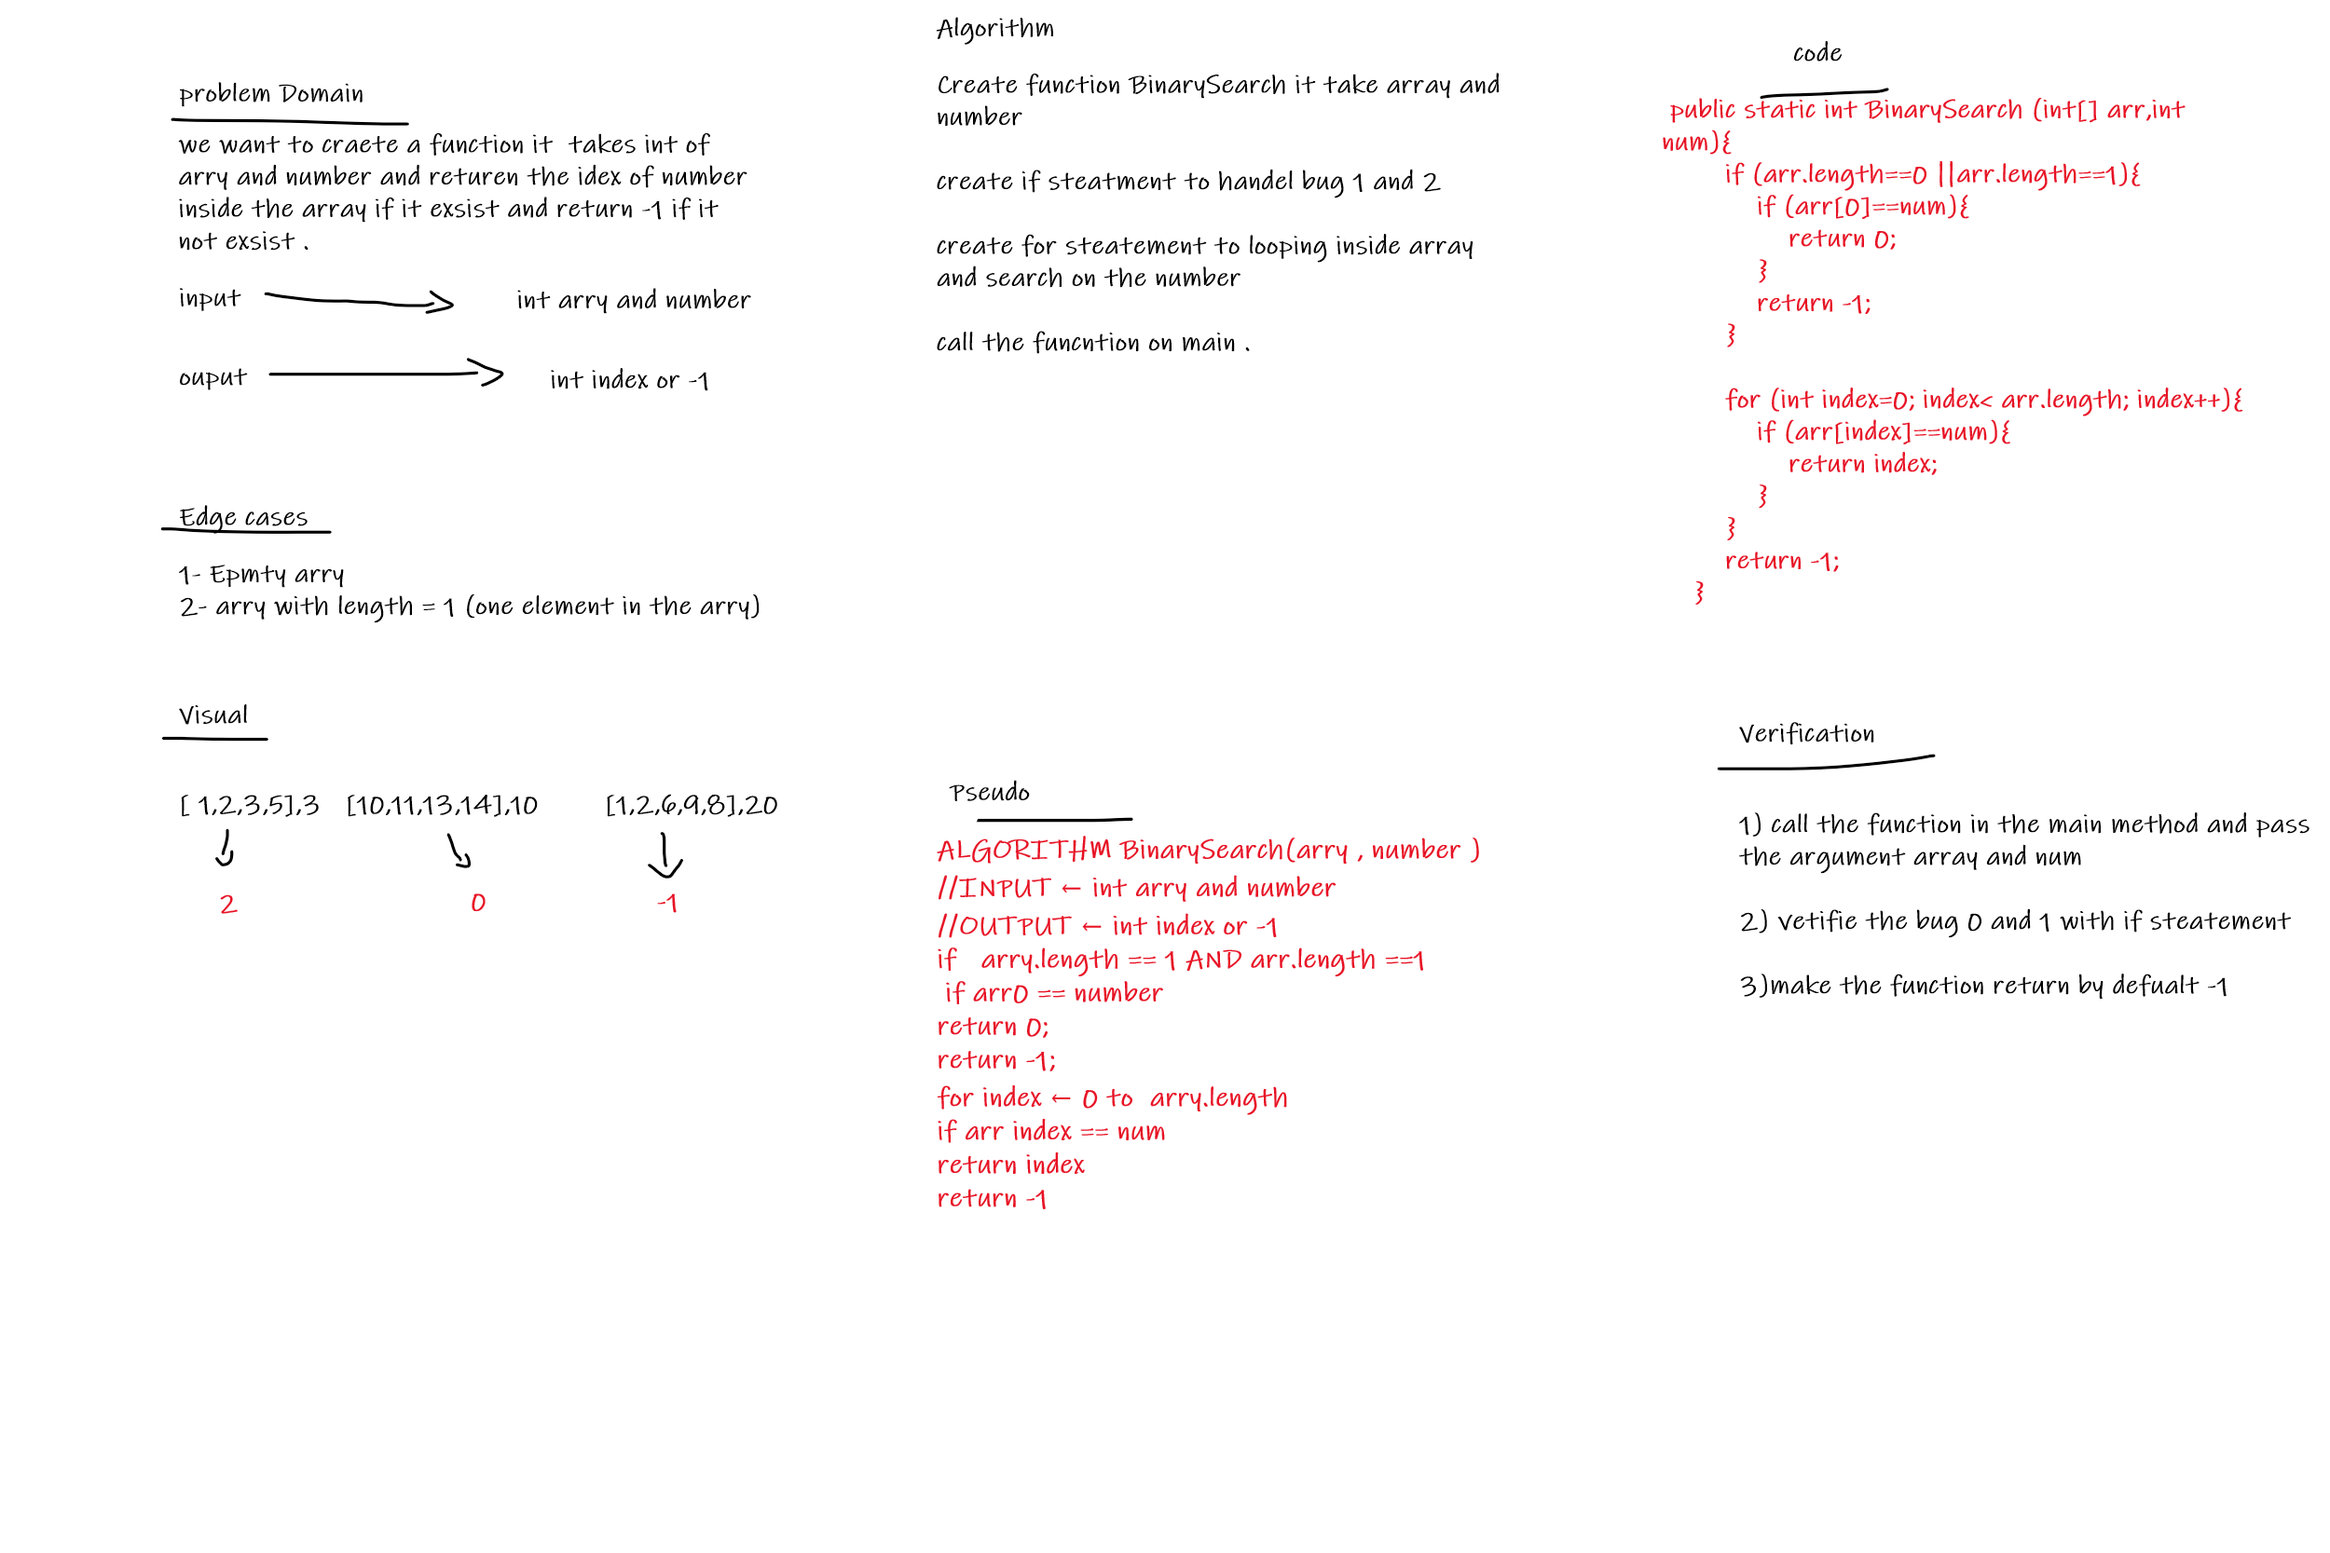
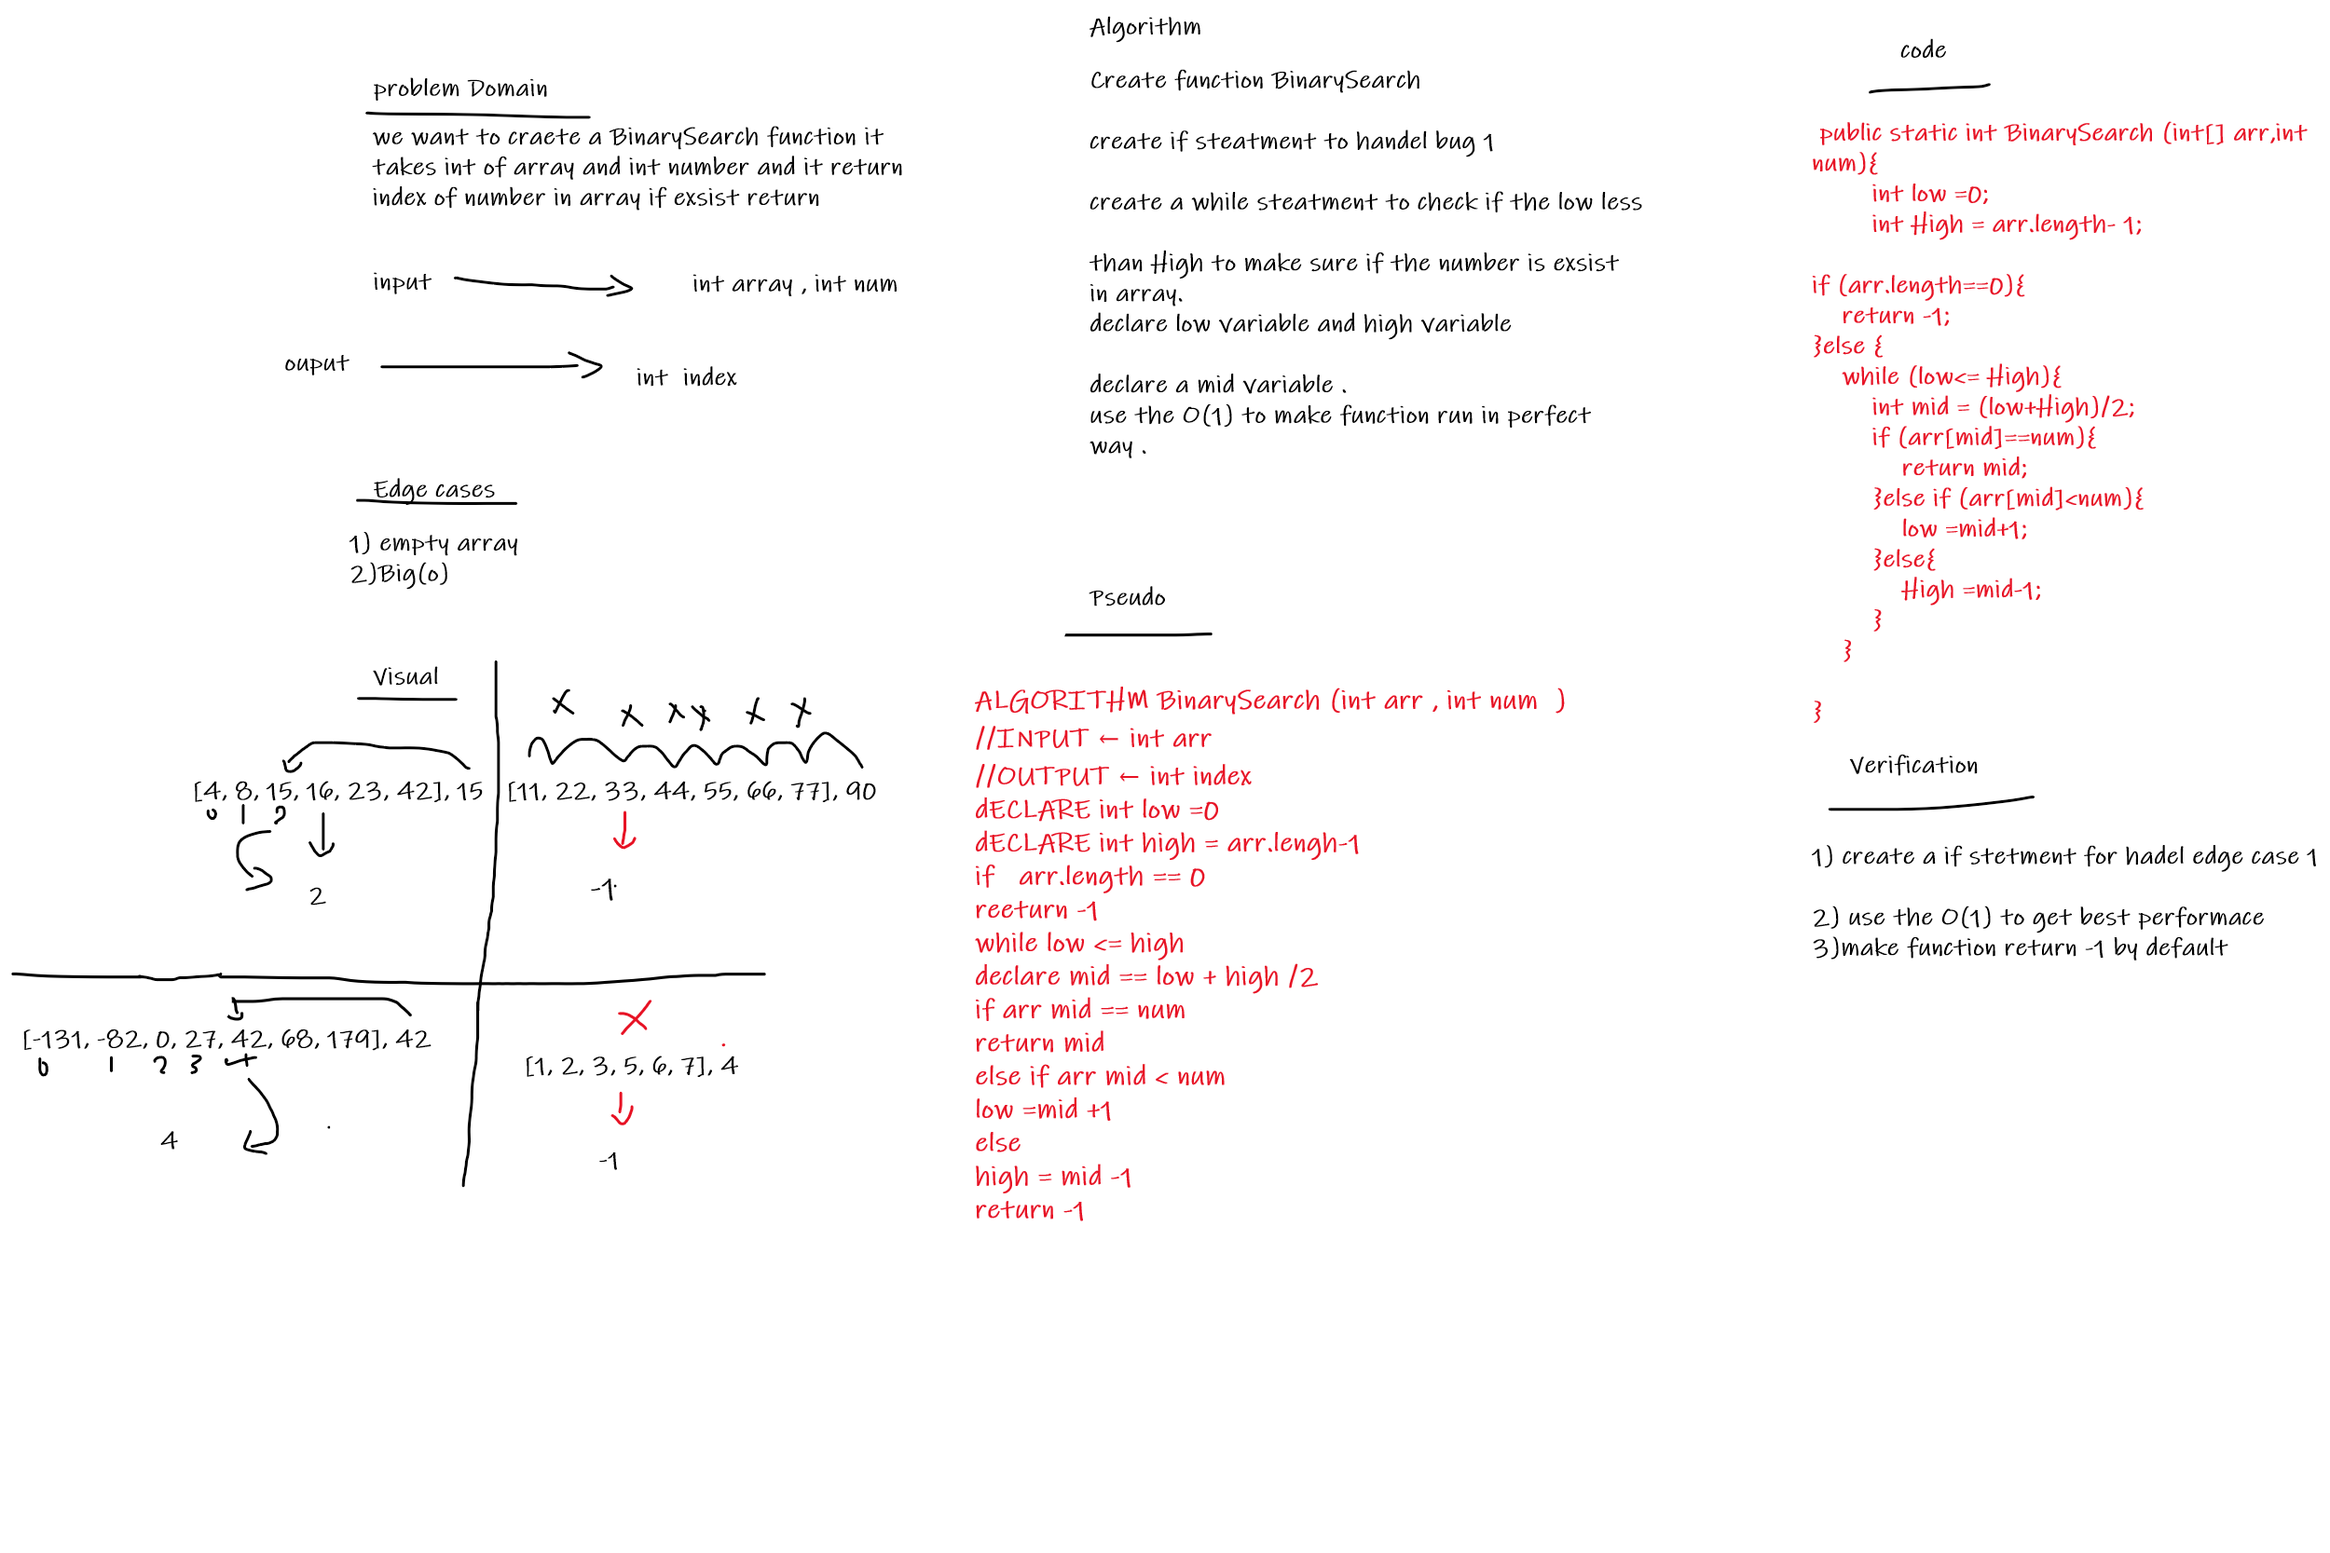
rewrite challenge 3

diff --git a/Java/Challenge-03/Readme.md b/Java/Challenge-03/Readme.md
@@ -1,10 +1,11 @@
 # Binary Search of Sorted Array
-create function it take array and number and the function return the index of number inside array if exsist or -1 if not exsist.
+create Binary Search function it take int of array and number and the Binary Search function return the index of number inside array if exsist or -1 if not exsist.
 
 ## Whiteboard Process
-![array-binary-search](https://user-images.githubusercontent.com/97642724/155875175-84d5eba4-64af-4705-88a6-ee5786f50038.png)
+![array-binary-search](https://user-images.githubusercontent.com/97642724/156798591-6c4732fb-3922-4138-a638-ffcb1db9ff81.png)
+
 
 
 ## Approach & Efficiency
-i learned how to search on number in  array and it's esay challenge about qustion, No  qustion
+i learned how to make search Binary Search function to search on number in  array and how to use big (o) in my code .
 evrything is clear.
